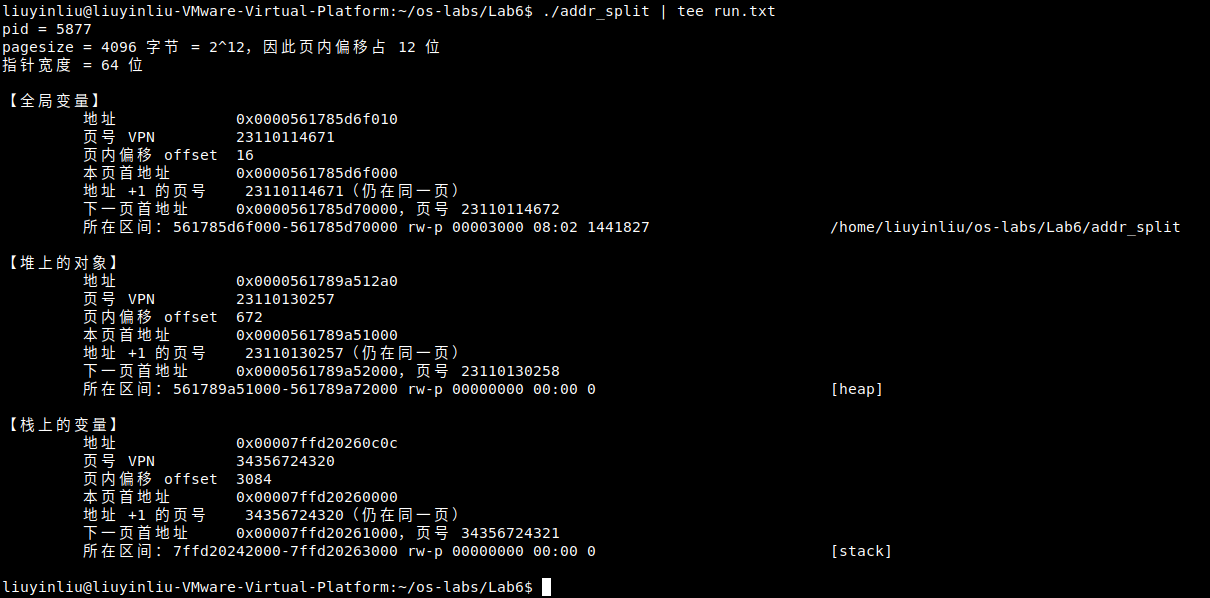
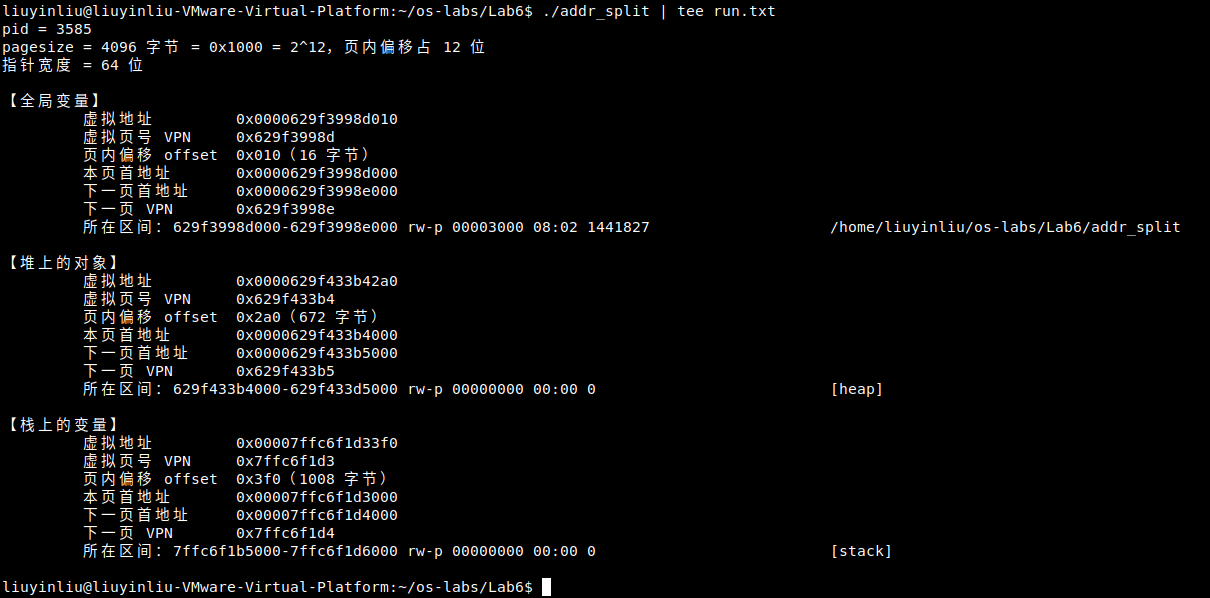
[2026333009刘银柳]Lab6：按教师最新模板重写报告并更新运行截图

diff --git a/2026333009刘银柳/Lab6/Lab6.md b/2026333009刘银柳/Lab6/Lab6.md
@@ -16,14 +16,7 @@
 
 ### 1.1 虚拟页号与页内偏移
 
-虚拟地址空间按固定大小划分为页，各页从 0 开始编号。一个虚拟地址由以下两部分确定：
-
-| 名称 | 记号 | 含义 |
-| :--- | :--- | :--- |
-| 虚拟页号 | VPN | 标识该地址属于哪个虚拟页 |
-| 页内偏移 | offset | 该地址相对于所属页起始地址的字节距离 |
-
-设虚拟地址为 `addr`，页大小为 `ps`：
+虚拟地址空间以页为单位划分。一个虚拟地址由**虚拟页号（VPN）**和**页内偏移（offset）**共同确定。设虚拟地址为 `addr`、页大小为 `ps`：
 
 ```text
 VPN    = addr ÷ ps 的整数商
@@ -31,44 +24,22 @@ offset = addr 除以 ps 的余数
 addr   = VPN × ps + offset
 ```
 
-例如，页大小为 4096 字节，虚拟地址为 4102：
+例如，页大小为 4096 字节，地址为 4102，则 `4102 = 1 × 4096 + 6`，VPN 为 1、偏移为 6 字节。
+
+### 1.2 为什么使用十六进制
+
+本实验使用的 Linux 通常采用 **4 KiB 页**，即 `4096 = 0x1000 = 2¹²` 字节。页内偏移占低 12 位，对应**末尾 3 位十六进制数字**；其余高位对应 VPN。
 
 ```text
-4102 = 1 × 4096 + 6
-VPN = 1，offset = 6
+虚拟地址：0x000055d0a1b2c010
+虚拟页号：0x55d0a1b2c     ← 去掉末尾 3 位
+页内偏移：0x010           ← 保留末尾 3 位（16 字节）
+本页首址：0x000055d0a1b2c000 ← 末尾 3 位置零
 ```
 
-这表示地址 4102 属于虚拟页 1，距离该页起始地址 6 字节。
+因此，地址、VPN 和页首地址用**十六进制**表示更便于观察；偏移用十六进制表示，并附带十进制字节数。程序会自动显示实际页大小，**只有页大小为 4096 字节时才能直接按末尾 3 位拆分**；其他页大小应根据实际位数或使用上面的除法与取余计算。
 
-### 1.2 页边界
-
-4 KiB 等于 4096 字节。采用该页大小时，前三个虚拟页的地址范围如下，区间两端均包含在内：
-
-| VPN | 虚拟地址范围（十进制） |
-| :---: | :--- |
-| 0 | 0～4095 |
-| 1 | 4096～8191 |
-| 2 | 8192～12287 |
-
-余数小于除数，因此页内偏移满足：
-
-```text
-0 ≤ offset < ps
-```
-
-4 KiB 页的偏移范围是 0～4095。由于 `4096 = 2¹²`，偏移占 12 个二进制位。程序会自动显示本机页大小与偏移位数，无需手工拆解二进制地址。
-
-地址增加 1 时，是否跨页取决于原偏移：
-
-- 原偏移小于 `ps − 1`：VPN 不变，偏移增加 1。
-- 原偏移等于 `ps − 1`：VPN 增加 1，偏移变为 0。
-
-例如，地址 4095 的 VPN 为 0、偏移为 4095；地址 4096 的 VPN 为 1、偏移为 0。以下两个公式用于定位当前页与下一页的起点：
-
-```text
-本页首地址   = addr − offset
-下一页首地址 = 本页首地址 + ps
-```
+页内偏移总满足 `0 ≤ offset < ps`。页大小为 4096 时，范围为 `0x000～0xfff`（即 0～4095 字节）。本页首地址为 `addr − offset`，下一页首地址为 `本页首地址 + ps`。地址增加 1 字节是否跨页，取决于当前偏移是否已到该页末尾。
 
 ### 1.3 页与内存映射区间
 
@@ -263,152 +234,85 @@ echo $?
 
 正常退出状态应为 `0`。保留本次输出，后续表格与截图统一使用这次运行的数据。重新运行时地址可能变化，不应混合不同运行的记录。
 
-### 步骤 7：按字段读取输出
+### 步骤 7：读取输出并完成实验记录
 
-以下内容仅为**教学示例**，用于说明格式和读取方法，不作为学生实测记录：
+在步骤 1 建立的本机 `Lab6.md` 中填写本节表格和问题。以下是一组**教学示例**，展示如何读取程序输出，**不得代替本人实测结果**。实际地址每次运行可能不同。
 
 ```text
 pid = 5312
-pagesize = 4096 字节 = 2^12，因此页内偏移占 12 位
+pagesize = 4096 字节 = 0x1000 = 2^12，页内偏移占 12 位
 指针宽度 = 64 位
 
 【全局变量】
-         地址             0x000055d0a1b2c010
-         页号 VPN         23035779884
-         页内偏移 offset  16
+         虚拟地址         0x000055d0a1b2c010
+         虚拟页号 VPN     0x55d0a1b2c
+         页内偏移 offset  0x010（16 字节）
          本页首地址       0x000055d0a1b2c000
-         地址 +1 的页号    23035779884（仍在同一页）
-         下一页首地址     0x000055d0a1b2d000，页号 23035779885
+         下一页首地址     0x000055d0a1b2d000
+         下一页 VPN       0x55d0a1b2d
          所在区间：55d0a1b2c000-55d0a1b2d000 rw-p 00001000 08:01 1234567 /home/student/os-labs/Lab6/addr_split
 
 【堆上的对象】
-         地址             0x000055d0a3e4f2a0
-         页号 VPN         23035788879
-         页内偏移 offset  672
+         虚拟地址         0x000055d0a3e4f2a0
+         虚拟页号 VPN     0x55d0a3e4f
+         页内偏移 offset  0x2a0（672 字节）
          本页首地址       0x000055d0a3e4f000
-         地址 +1 的页号    23035788879（仍在同一页）
-         下一页首地址     0x000055d0a3e50000，页号 23035788880
+         下一页首地址     0x000055d0a3e50000
+         下一页 VPN       0x55d0a3e50
          所在区间：55d0a3e4f000-55d0a3e70000 rw-p 00000000 00:00 0 [heap]
 
 【栈上的变量】
-         地址             0x00007ffd3c2a4b2c
-         页号 VPN         34356839076
-         页内偏移 offset  2860
+         虚拟地址         0x00007ffd3c2a4b2c
+         虚拟页号 VPN     0x7ffd3c2a4
+         页内偏移 offset  0xb2c（2860 字节）
          本页首地址       0x00007ffd3c2a4000
-         地址 +1 的页号    34356839076（仍在同一页）
-         下一页首地址     0x00007ffd3c2a5000，页号 34356839077
+         下一页首地址     0x00007ffd3c2a5000
+         下一页 VPN       0x7ffd3c2a5
          所在区间：7ffd3c286000-7ffd3c2a7000 rw-p 00000000 00:00 0 [stack]
 ```
 
-以上示例包含程序输出的环境信息和三个对象的完整记录。各段字段顺序相同，按以下顺序阅读：
+**读法提示：**每个对象从其标题读到下一对象标题之前；`0x` 表示十六进制，`pagesize` 是页大小（字节）。以示例全局变量为例，`0x...c010` 的末三位 `010` 为偏移，高位 `0x55d0a1b2c` 为 VPN；对应页首地址以 `000` 结尾。`所在区间` 取自 `/proc/self/maps`，其起止地址通常不带 `0x`，依然是十六进制。`rw-p` 表示可读、可写、不可执行及私有映射。
 
-1. **读取页大小。** `pagesize` 后的数值是后续判断使用的 `ps`。示例为 4096 字节，实际记录采用本人输出。
-2. **区分地址与值。** “地址”一行是对象的虚拟地址，不是变量中保存的 1、2 或 3；以 `0x` 开头表示十六进制。
-3. **读取 VPN 与偏移。** 两行均为十进制数。示例中三个偏移分别为 16、672、2860，均满足 `0 ≤ offset < 4096`。完整地址可以原样复制，无需手工转换为十进制。
-4. **核对页边界。** 示例全局变量的下一页 VPN 为 `23035779885`，比当前 VPN `23035779884` 大 1；堆对象和栈变量也满足这一关系。三个对象的“地址 +1”仍在同一页，是因为原偏移均未达到页末；不能据此推断所有地址增加 1 都不跨页。
-5. **识别映射区间。** “所在区间”由程序自动匹配，不需要在 maps 中搜索变量名。全局变量通常对应 `addr_split` 文件的可写映射，堆对象通常对应 `[heap]`，栈变量通常对应 `[stack]`；具体路径与标签以实际输出为准。
-
-示例全局变量的地址减去偏移 16，即得到本页首地址 `0x000055d0a1b2c000`，其映射区间恰好也从此处开始。栈变量所在页的首地址为 `0x00007ffd3c2a4000`，而栈映射区间从 `0x00007ffd3c286000` 开始，说明一个映射区间可以包含多个页，区间起点与对象所在页的首地址不一定相同。
-
-maps 中的地址通常不带 `0x`，与程序打印地址的数值表示一致。权限串 `rw-p` 分别表示可读、可写、不可执行、私有映射。设备号、inode 和文件偏移仅作输出信息保留，本次不要求解释。
-
-### 步骤 8：填写实验记录并核对
-
-在步骤 1 创建的本机报告中填写以下表格。
-
-**运行信息：**
+**A. 运行信息（本人实测）**
 
 | 项目 | 本人实测结果 |
 | :--- | :--- |
-| Ubuntu 实验目录完整路径（步骤 2 或 4 的 `pwd` 输出） | `/home/liuyinliu/os-labs/Lab6` |
+| Ubuntu 实验目录完整路径（`pwd`） | `/home/liuyinliu/os-labs/Lab6` |
 | 编译退出状态（步骤 5 的 `echo $?`） | `0` |
 | 运行退出状态（步骤 6 的 `echo $?`） | `0` |
-| 页大小，单位为字节（`pagesize`） | `4096` |
+| 页大小（字节，`pagesize`） | `4096`（`0x1000`） |
 
-**地址分解结果：填写方法**
+**B. 地址分解记录（本人同一次运行）**
 
-表格的一行对应一个对象，三个数据列分别对应程序输出中的三个字段。按以下步骤填写。
+直接按三段输出填写；虚拟地址、VPN 和 offset 都保留 `0x` 前缀，offset **只填写十六进制部分**，不要复制括号中的十进制值。
 
-**1. 确定输出段与表格行的对应关系。**
-
-- `【全局变量】` 下的字段填写到“全局变量”行。
-- `【堆上的对象】` 下的字段填写到“堆上的对象”行。
-- `【栈上的变量】` 下的字段填写到“栈上的变量”行。
-
-每段从对象名称开始，到下一个对象名称之前结束。填写某一行时，三个数值必须取自同一段输出。
-
-**2. 按列提取字段。** 以步骤 7 的全局变量教学示例为例：
-
-| 报告中的列 | 对应的输出行 | 该列填写内容 | 填写要求 |
+| 对象 | 完整虚拟地址（十六进制） | VPN（十六进制） | offset（十六进制） |
 | :--- | :--- | :--- | :--- |
-| 完整虚拟地址 | `地址 0x000055d0a1b2c010` | `0x000055d0a1b2c010` | 保留完整地址及 `0x` 前缀，不填“本页首地址”或 maps 区间起点 |
-| 页号 VPN | `页号 VPN 23035779884` | `23035779884` | 复制当前对象的页号，不填“地址 +1 的页号”或“下一页首地址”后的页号 |
-| 页内偏移 offset | `页内偏移 offset 16` | `16` | 复制偏移数值，不填页大小 `4096` 或偏移位数 `12` |
+| 全局变量 | `0x0000629f3998d010` | `0x629f3998d` | `0x010` |
+| 堆上的对象 | `0x0000629f433b42a0` | `0x629f433b4` | `0x2a0` |
+| 栈上的变量 | `0x00007ffc6f1d33f0` | `0x7ffc6f1d3` | `0x3f0` |
 
-记录字段右侧的数值即可。虚拟地址来自对象对应的“地址”行；VPN 与 offset 是程序根据该地址和 `pagesize` 计算的结果，其计算方法如下。
+**C. 核对与分析（需要填写答案，不只复制程序输出）**
 
-**3. 根据地址与页大小计算 VPN 和偏移。**
+1. **偏移范围核对：**根据本人实测的 `pagesize`，写出 offset 的允许范围（十六进制），列出三个对象的实测 offset，并判断是否全部符合。
 
-从输出顶部的 `pagesize` 获取页大小 `ps`，从当前对象的“地址”行获取虚拟地址 `addr`。计算关系为：
+   答：实测 `pagesize = 4096` 字节（`0x1000`），因此 offset 必须满足 `0 ≤ offset < 0x1000`，即允许范围为 `0x000`～`0xfff`（0～4095 字节）。三个对象的实测 offset 为：全局变量 `0x010`（16 字节）、堆上的对象 `0x2a0`（672 字节）、栈上的变量 `0x3f0`（1008 字节）。三者都小于 `0x1000`，全部符合偏移范围，没有越界。
 
-```text
-VPN    = addr ÷ ps 的整数商
-offset = addr − VPN × ps
-```
+2. **页边界计算：**假设页大小为 `4096 = 0x1000` 字节，某地址的 VPN 为 `0x2a`、offset 为 `0xfff`（4095 字节）。该地址增加 **1 字节**后，新的 VPN 和 offset 分别是多少（均写十六进制）？写出计算过程并说明是否跨页。**本题不直接抄程序结果。**
 
-其中 offset 也是 `addr` 除以 `ps` 的余数。计算后用 `VPN × ps + offset = addr` 核对，并检查 `0 ≤ offset < ps`。
+   答：原地址 = `VPN × 页大小 + offset` = `0x2a × 0x1000 + 0xfff` = `0x2a000 + 0xfff` = `0x2afff`。增加 1 字节后为 `0x2afff + 0x1` = `0x2b000`。拆分 `0x2b000`：偏移取末三位 `0x000`，其余高位为 `0x2b`，即新 VPN = `0x2b`，新 offset = `0x000`。由于原 offset `0xfff` 已是该页最后一个字节（等于 `ps − 1`），再加 1 就会向高位进位，所以**发生跨页**：地址离开 VPN `0x2a` 的第 4095 字节，进入下一页 VPN `0x2b` 的起始字节。
 
-对于示例中的 4096 字节页，`4096 = 0x1000 = 2¹²`，恰好对应三位十六进制数字。因此，可将地址的末三位作为偏移，其余高位作为 VPN：
+3. **所在页与映射区间：**从本人**栈变量**的输出中，记录“本页首地址”，再从 `所在区间` 的 `起点-终点` 中取出“映射区间起点”（二者都写十六进制）。两者是否相同？结合结果说明一个 maps 映射区间与一个虚拟页之间的关系。
 
-```text
-全局变量虚拟地址：0x000055d0a1b2c010
+   本页首地址：`0x00007ffc6f1d3000`（栈变量地址 `0x00007ffc6f1d33f0` 减去 offset `0x3f0`）
 
-VPN 的十六进制表示：0x000055d0a1b2c
-VPN 的十进制表示：  23035779884
+   映射区间起点：`0x00007ffc6f1b5000`（所在区间为 `7ffc6f1b5000-7ffc6f1d6000`，左端为起点）
 
-offset 的十六进制表示：0x010
-offset 的十进制表示：  16
+   是否相同及说明：不相同。两者相差 `0x00007ffc6f1d3000 − 0x00007ffc6f1b5000 = 0x1e000`，即 30 个 4096 字节的页（`0x1e000 ÷ 0x1000 = 0x1e`）。这说明一条 maps 映射记录可以覆盖**多个连续的虚拟页**，它的起点是整段映射的起始地址，而不是其中某个对象所在页的首地址；对象地址只需满足 `映射区间起点 ≤ 地址 < 映射区间终点`（左闭右开），因此“区间起点”与“对象所在页首地址”不一定相同，本次实测中区间起点就比所在页首地址早了 30 页。
 
-核对：23035779884 × 4096 + 16 = 0x000055d0a1b2c010
-```
+注意：maps 区间左端包含、右端不包含；区间起点**不一定**等于栈变量所在页的首地址。若结果与预期不同，应保留真实输出并分析，不要照抄教学示例。无需计算物理地址。
 
-十六进制与十进制之间的转换可使用计算器的程序员模式。其余两个示例对象的偏移计算为：
-
-- 堆对象地址末三位为 `2a0`：`0x2a0 = 2 × 16² + 10 × 16 = 672`。
-- 栈变量地址末三位为 `b2c`：`0xb2c = 11 × 16² + 2 × 16 + 12 = 2860`。
-
-“末三位为偏移”仅适用于 4096 字节页。实测页大小不同时，应采用通用的整数除法与取余公式。报告可直接记录程序输出的计算结果，上述方法用于理解和核对数值来源。
-
-**4. 对照完整填写示例。** 根据步骤 7 的三段教学输出，填写结果如下。此表仅用于展示对应关系，学生实测数据填写在后面的空表中。
-
-| 对象 | 完整虚拟地址 | 页号 VPN | 页内偏移 offset |
-| :--- | :--- | :--- | :--- |
-| 全局变量 | `0x000055d0a1b2c010` | 23035779884 | 16 |
-| 堆上的对象 | `0x000055d0a3e4f2a0` | 23035788879 | 672 |
-| 栈上的变量 | `0x00007ffd3c2a4b2c` | 34356839076 | 2860 |
-
-**地址分解结果：本人实测记录**
-
-下表是需要填写的记录表。三个对象的数据均取自本人同一次运行，不使用上面的教学示例数值代替实测结果。
-
-| 对象 | 完整虚拟地址 | 页号 VPN | 页内偏移 offset |
-| :--- | :--- | :--- | :--- |
-| 全局变量 | `0x0000561785d6f010` | 23110114671 | 16 |
-| 堆上的对象 | `0x0000561789a512a0` | 23110130257 | 672 |
-| 栈上的变量 | `0x00007ffd20260c0c` | 34356724320 | 3084 |
-
-**结果核对：**使用本次输出完成以下两项，不要求计算物理地址或不同对象之间的地址距离。
-
-| 核对项目 | 结果与依据 |
-| :--- | :--- |
-| 三个对象的偏移是否均在 `0 ≤ offset < ps` 范围内 | 是。页大小 `ps = 4096` 字节，偏移允许范围为 0～4095；三个实测偏移为全局变量 16、堆对象 672、栈变量 3084，均满足 `0 ≤ offset < 4096` |
-| 全局变量的“下一页首地址”对应 VPN 是否等于当前 VPN 加 1 | 是。全局变量当前页号 VPN 为 23110114671，下一页首地址对应页号为 23110114672，两者相差 1 |
-
-核对方法：页大小为 `ps` 时，偏移允许范围为 `0～ps−1`；第二项只比较程序已经打印的两个十进制页号，无需计算长十六进制地址。若不符合关系，先核对是否抄错字段或混用了两次运行，保留实际结果并注明原因。
-
-其他输出仅用于阅读与截图，不要求另抄映射区间、指针宽度或填写额外分析题。
-
-### 步骤 9：保存运行截图
+### 步骤 8：保存运行截图
 
 截图文件名为 `imgs/lab6_split.png`，保存于本机报告同级的 `imgs` 文件夹。
 
@@ -479,8 +383,8 @@ TLB 缓存地址转换结果。命中时可以复用转换；在课程使用的 
 
 提交前核对：
 
-- 步骤 8 的运行信息、三个对象的地址分解结果及两项核对均已填写。
-- 报告采用本人实测数据，与步骤 9 的截图对应同一次运行。
+- 步骤 7 的运行信息、三个对象的地址分解记录及三道分析题均已填写。
+- 报告采用本人实测数据，与步骤 8 的截图对应同一次运行。
 - 图片在 Markdown 预览中显示正常，命令与输出清晰可读，未使用手机拍屏或他人截图。
 - 报告保留模板正文、表格与图片引用，选读不要求作答。
 - 源码、可执行文件与其他运行材料留在 Ubuntu 实验目录，不增加提交文件。
